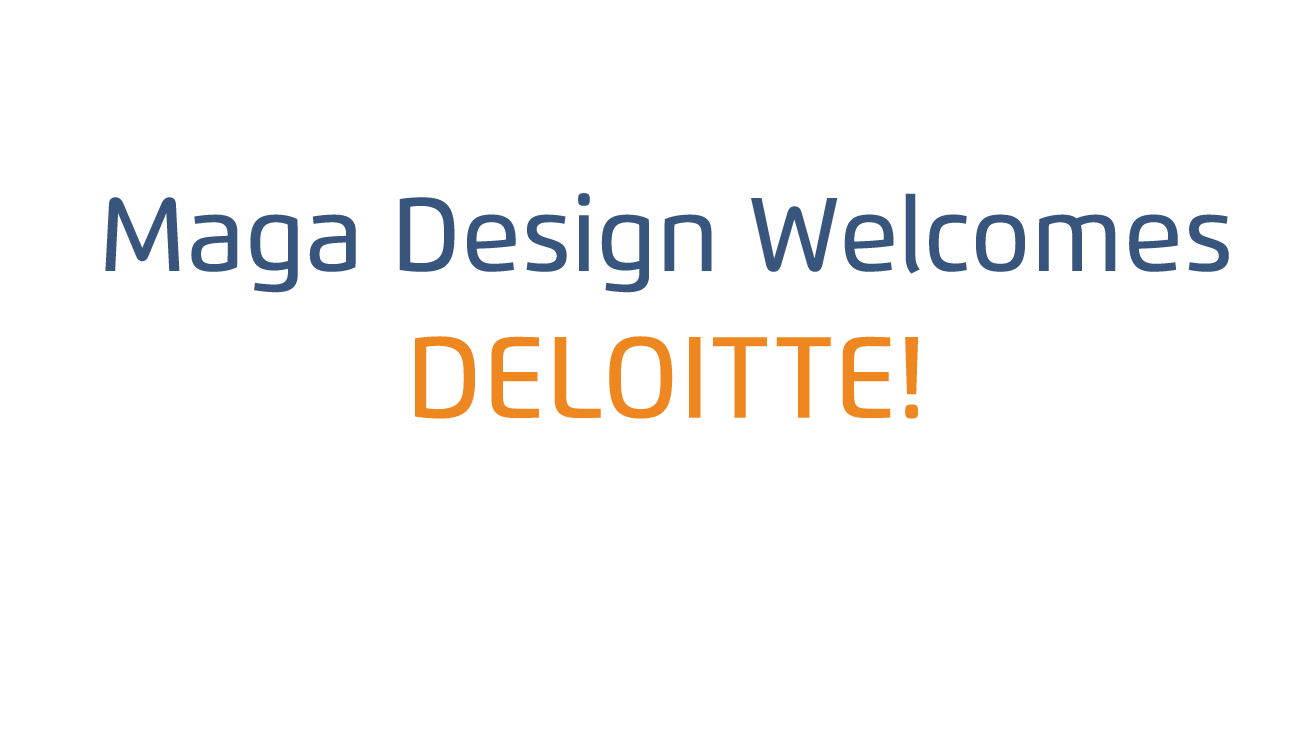
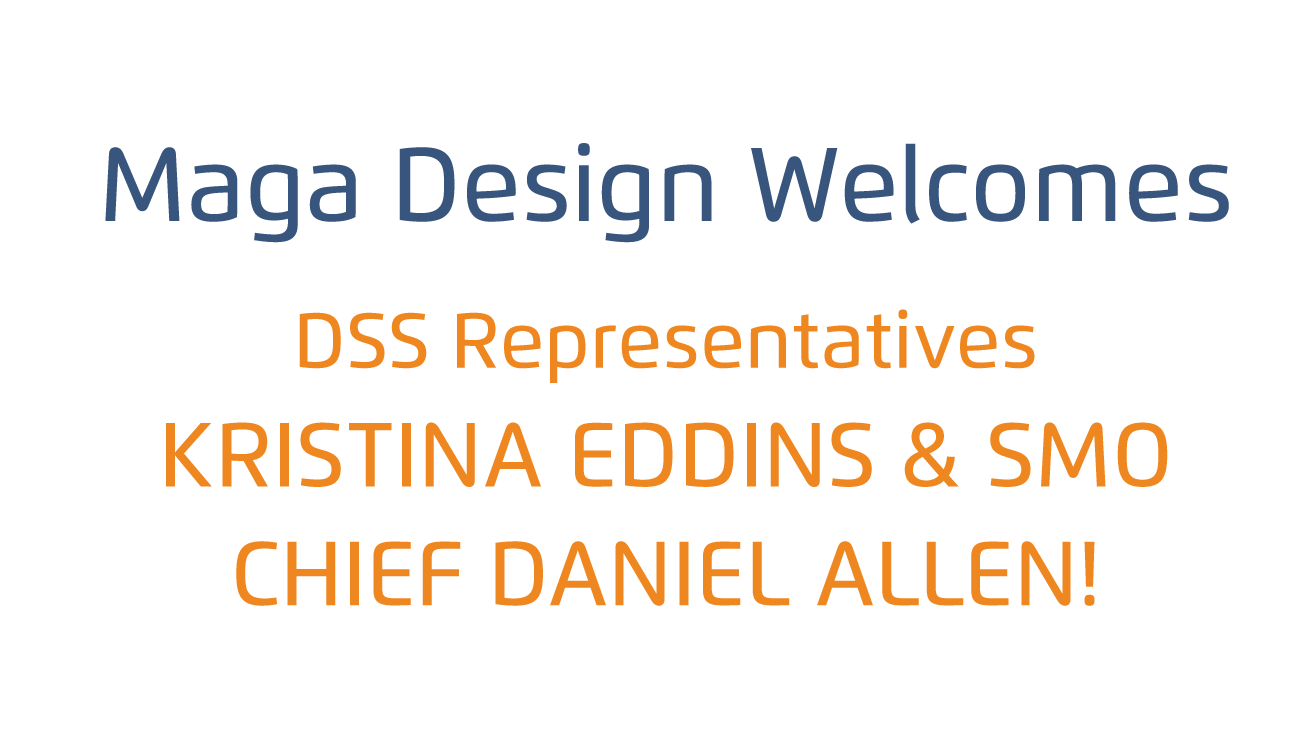
added welcome screen

diff --git a/style.css b/style.css
@@ -39,7 +39,7 @@ body {
 
 .wrapper {
 	height: 850px;
-	width: 5200px;
+	width: 6500px;  /*6500 with welcome screen && 5300 without welcome screen 
 }
 
 p {
@@ -114,6 +114,7 @@ p {
     left: 0;
     z-index: 5;
     background-size: contain;
+    background-repeat: no-repeat;
     float: left;
 }
 
